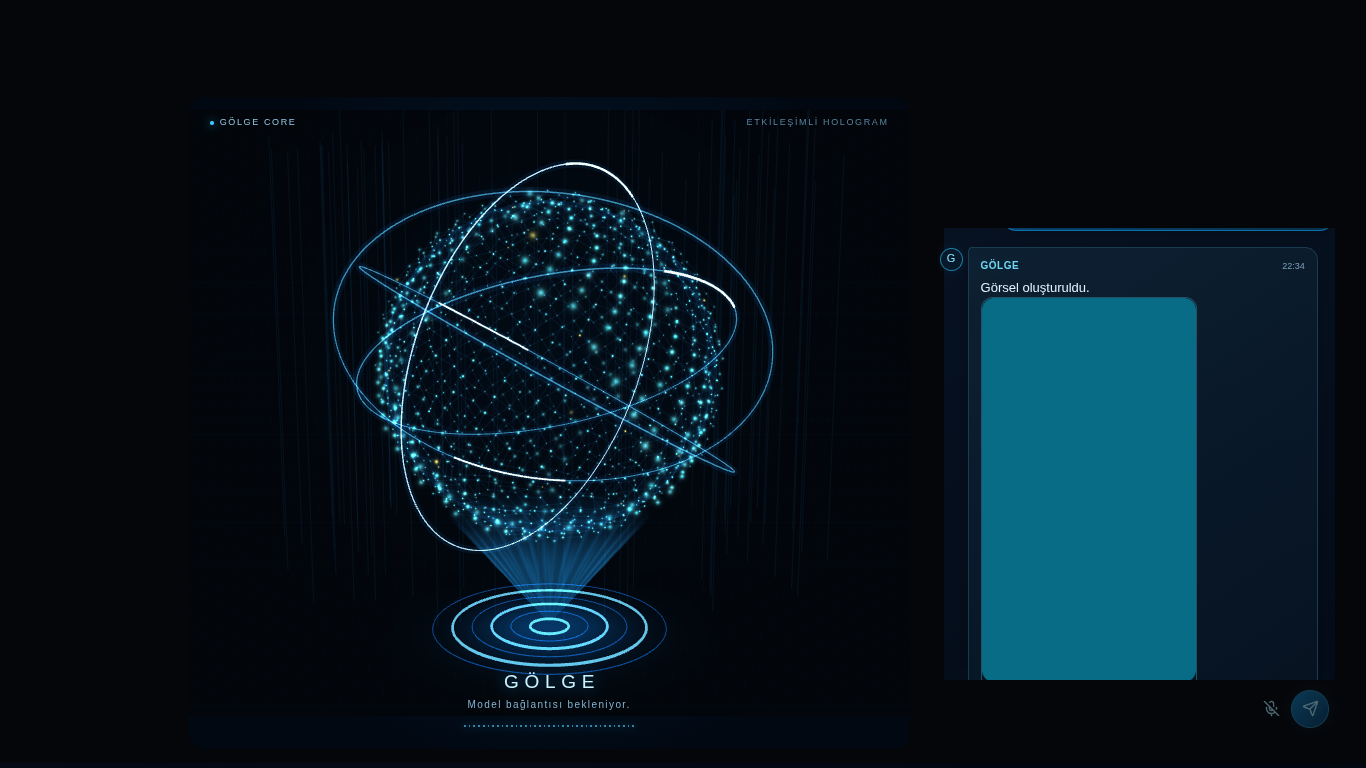
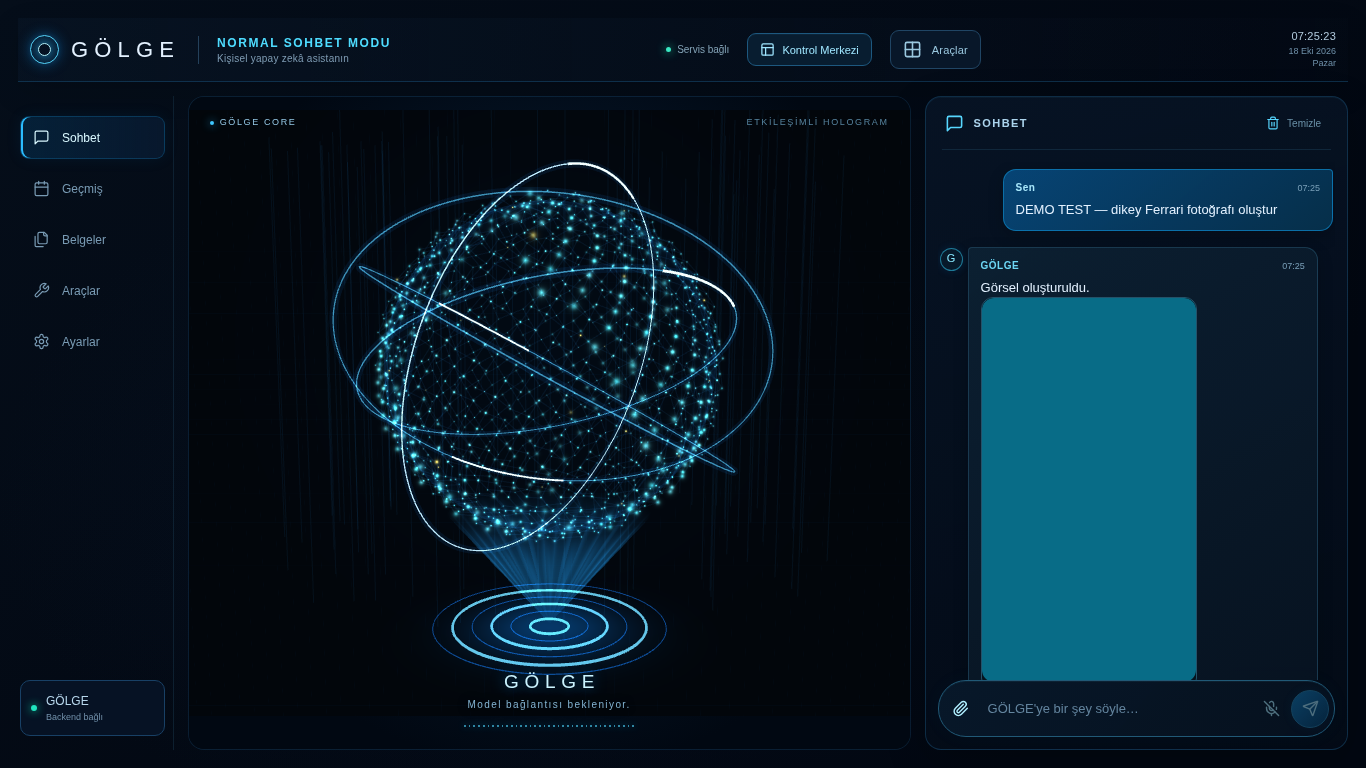
Keep image cost consent non-blocking and fence pending conversation changes

diff --git a/ultron/cloud_service/static/image-intents.js b/ultron/cloud_service/static/image-intents.js
@@ -10,5 +10,26 @@
   return null;
  }
  function options(text){const t=String(text).toLocaleLowerCase('tr-TR');return {aspect_ratio:/dikey|telefon.*duvar|portrait/.test(t)?'9:16':/yatay|masaüstü.*duvar|landscape/.test(t)?'16:9':'1:1',style:/sinematik|cinematic/.test(t)?'cinematic':/anime|çizim/.test(t)?'anime':/3d|3 boyut/.test(t)?'3d':/dijital sanat/.test(t)?'digital-art':/fotoğraf|gerçekçi|photo/.test(t)?'photo':'natural'};}
- return {resolve,options};
+ function confirmCost(detail,signal){
+  // Non-blocking consent: a native confirm() pauses audio/work on the JS thread.
+  return new Promise(done=>{
+   if(signal?.aborted){done(false);return;}
+   const previous=document.activeElement,dialog=document.createElement('dialog');
+   dialog.setAttribute('aria-label','Görsel üretimi maliyet onayı');
+   dialog.style.cssText='color:#dff6ff;background:#071522;border:1px solid #28758e;border-radius:16px;padding:24px;max-width:min(420px,90vw);z-index:9999';
+   const text=document.createElement('p');text.textContent=detail+' Ücretli tek görsel üretimini onaylıyor musun?';
+   const approve=document.createElement('button');approve.textContent='Ücretli üretimi onayla';approve.type='button';
+   const deny=document.createElement('button');deny.textContent='Vazgeç';deny.type='button';
+   for(const button of [approve,deny])button.style.cssText='padding:12px;margin:5px;border:1px solid #28758e;border-radius:10px;background:#10364b;color:#e1f7ff;cursor:pointer';
+   let settled=false;
+   const finish=value=>{if(settled)return;settled=true;signal?.removeEventListener('abort',abort);dialog.remove();previous?.focus?.();done(value);};
+   const abort=()=>finish(false);
+   approve.onclick=()=>finish(true);deny.onclick=()=>finish(false);
+   dialog.oncancel=e=>{e.preventDefault();finish(false)};
+   signal?.addEventListener('abort',abort,{once:true});dialog.append(text,approve,deny);document.body.append(dialog);
+   if(typeof dialog.showModal!=='function'){finish(false);return;}
+   dialog.showModal();deny.focus();
+  });
+ }
+ return {resolve,options,confirmCost};
 });

diff --git a/ultron/cloud_service/static/index.html b/ultron/cloud_service/static/index.html
@@ -1045,7 +1045,8 @@ async function generateImageApi(prompt,image=null){
   const config=await api('/api/image/status',{signal:job.controller.signal});
   if(activeImageJob!==job||conversationId!==startingConversation)return null;
   if(!config.available)throw Error(config.detail);
-  if(!window.confirm(config.detail+' Ücretli tek görsel üretimini onaylıyor musun?'))return null;
+  if(!await GolgeImages.confirmCost(config.detail,job.controller.signal))return null;
+  if(activeImageJob!==job||job.controller.signal.aborted||conversationId!==startingConversation)return null;
   if(!conversationId){conversationId=cid;localStorage.setItem('ultronConversationId',cid)}
   const res=await fetch('/api/image/generate',{method:'POST',credentials:'include',signal:job.controller.signal,
    headers:{'Content-Type':'application/json'},body:JSON.stringify({prompt,conversation_id:cid,request_id:job.id,cost_approved:true,...GolgeImages.options(prompt)})});

diff --git a/ultron/frontend/src/dashboard/Dashboard.tsx b/ultron/frontend/src/dashboard/Dashboard.tsx
@@ -351,7 +351,7 @@ export default function Dashboard(){
   try{
    const config=await request('/api/merged/image-studio/status',undefined,job.controller.signal);
    if(!config.available){u.add('assistant',config.detail);return;}
-   if(imageJob.current!==job||!window.confirm(config.detail+' Ücretli tek görsel üretimini onaylıyor musun?'))return;
+   if(imageJob.current!==job||!await GolgeImages.confirmCost(config.detail,job.controller.signal))return;
    localStorage.setItem('golgeImageConversation',imageConversation.current);
    setLocalState('THINKING');u.setNotice('Görsel oluşturuluyor… ESC ile sonucu iptal edebilirsin.');
    const r=await request('/api/merged/image-studio/generate',{prompt:text,conversation_id:imageConversation.current,request_id:job.id,cost_approved:true,...GolgeImages.options(text)},job.controller.signal);

diff --git a/ultron/cloud_service/static/image-intents.d.ts b/ultron/cloud_service/static/image-intents.d.ts
@@ -1,4 +1,4 @@
 export {};
 declare global {
- var GolgeImages: {resolve:(text:string)=>'generate'|'edit'|null;options:(text:string)=>{aspect_ratio:string;style:string}};
+ var GolgeImages: {confirmCost:(detail:string,signal?:AbortSignal)=>Promise<boolean>;resolve:(text:string)=>'generate'|'edit'|null;options:(text:string)=>{aspect_ratio:string;style:string}};
 }

diff --git a/scripts/tests/test_image_studio_browser.py b/scripts/tests/test_image_studio_browser.py
@@ -47,12 +47,14 @@ class ImageStudioBrowserTests(harness.ResearchSourceBrowserTests):
         return await super().api(request)
 
     async def test_desktop_generation_and_download(self):
-        self.page.on("dialog", lambda d: d.accept())
         await self.page.goto(self.url)
         await self.page.get_by_role("textbox", name="Mesaj", exact=True).fill(
             "DEMO TEST — dikey Ferrari fotoğrafı oluştur"
         )
         await self.page.get_by_role("button", name="Gönder", exact=True).click()
+        await self.page.get_by_role(
+            "button", name="Ücretli üretimi onayla", exact=True
+        ).click()
         img = self.page.get_by_alt_text("GÖLGE tarafından üretilen görsel")
         await img.wait_for()
         await self.page.wait_for_function(
@@ -70,7 +72,6 @@ class ImageStudioBrowserTests(harness.ResearchSourceBrowserTests):
             await self.page.get_by_role("link", name="Görseli indir / kaydet").click()
 
     async def phone(self):
-        self.page.on("dialog", lambda d: d.accept())
         await self.page.set_viewport_size({"width": 390, "height": 844})
         await self.page.goto(self.url + "/phone")
         await self.page.locator("#splash").wait_for(state="detached")
@@ -81,8 +82,11 @@ class ImageStudioBrowserTests(harness.ResearchSourceBrowserTests):
     async def test_phone_generation_reload_and_download(self):
         await self.phone()
         await self.page.evaluate(
-            "sendImageCreation('DEMO TEST — Mersin fotoğrafı oluştur',addMessage('user','DEMO TEST — Mersin fotoğrafı oluştur'))"
+            "void sendImageCreation('DEMO TEST — Mersin fotoğrafı oluştur',addMessage('user','DEMO TEST — Mersin fotoğrafı oluştur'))"
         )
+        await self.page.get_by_role(
+            "button", name="Ücretli üretimi onayla", exact=True
+        ).click()
         await self.page.wait_for_function(
             "document.querySelector('#messages img')?.naturalWidth===768"
         )
@@ -112,6 +116,9 @@ class ImageStudioBrowserTests(harness.ResearchSourceBrowserTests):
         await self.page.evaluate(
             "void sendImageCreation('DEMO TEST fotoğraf oluştur',null)"
         )
+        await self.page.get_by_role(
+            "button", name="Ücretli üretimi onayla", exact=True
+        ).click()
         await self.page.wait_for_function("activeImageJob!==null")
         await self.page.evaluate("cancelActiveChat()")
         await self.page.wait_for_timeout(700)
@@ -119,6 +126,9 @@ class ImageStudioBrowserTests(harness.ResearchSourceBrowserTests):
         await self.page.evaluate(
             "void sendImageCreation('DEMO TEST fotoğraf oluştur',null)"
         )
+        await self.page.get_by_role(
+            "button", name="Ücretli üretimi onayla", exact=True
+        ).click()
         await self.page.wait_for_function("activeImageJob!==null")
         await self.page.evaluate("conversationId=crypto.randomUUID()")
         await self.page.wait_for_timeout(700)
@@ -152,13 +162,46 @@ class ImageStudioBrowserTests(harness.ResearchSourceBrowserTests):
         self.assertEqual(self.invocations, [])
 
     async def test_refusing_cost_never_calls_generation(self):
-        self.page.on("dialog", lambda d: d.dismiss())
         await self.page.goto(self.url)
         await self.page.get_by_role("textbox", name="Mesaj", exact=True).fill(
             "Ferrari fotoğrafı oluştur"
         )
         await self.page.get_by_role("button", name="Gönder", exact=True).click()
+        await self.page.get_by_role("button", name="Vazgeç", exact=True).click()
         await self.page.wait_for_timeout(400)
+        self.assertEqual(self.invocations, [])
+
+    async def test_pending_consent_keeps_event_loop_live_and_escape_aborts(self):
+        for phone in (False, True):
+            if phone:
+                await self.phone()
+                await self.page.evaluate(
+                    "void sendImageCreation('DEMO TEST fotoğraf oluştur',null)"
+                )
+            else:
+                await self.page.goto(self.url)
+                await self.page.get_by_role("textbox", name="Mesaj", exact=True).fill(
+                    "DEMO TEST fotoğraf oluştur"
+                )
+                await self.page.get_by_role("button", name="Gönder", exact=True).click()
+            consent = self.page.get_by_role("dialog", name="Görsel üretimi maliyet onayı")
+            await consent.wait_for()
+            # A live JS timer is necessary for audio callbacks; this is not a mic test.
+            self.assertTrue(await self.page.evaluate(
+                "new Promise(resolve=>setTimeout(()=>resolve(true),30))"
+            ))
+            await self.page.keyboard.press("Escape")
+            await consent.wait_for(state="detached")
+            self.assertEqual(self.invocations, [])
+            self.assertEqual(await self.page.locator("figure img, #messages img").count(), 0)
+
+    async def test_phone_conversation_changed_while_consent_pending_never_dispatches(self):
+        await self.phone()
+        await self.page.evaluate("void sendImageCreation('DEMO TEST fotoğraf oluştur',null)")
+        await self.page.get_by_role("dialog", name="Görsel üretimi maliyet onayı").wait_for()
+        await self.page.evaluate("conversationId=crypto.randomUUID()")
+        await self.page.get_by_role("button", name="Ücretli üretimi onayla", exact=True).click()
+        await self.page.wait_for_function("activeImageJob===null")
         self.assertEqual(self.invocations, [])
 
 

diff --git a/scripts/tests/test_research_source_ui.py b/scripts/tests/test_research_source_ui.py
@@ -29,7 +29,7 @@ class ResearchSourceBrowserTests(unittest.IsolatedAsyncioTestCase):
         await site.start()
         self.url = 'http://127.0.0.1:' + str(site._server.sockets[0].getsockname()[1])
         self.pw = await async_playwright().start()
-        self.browser = await self.pw.chromium.launch(args=['--no-sandbox', '--use-angle=swiftshader', '--enable-unsafe-swiftshader'])
+        self.browser = await self.pw.chromium.launch(args=['--no-sandbox', '--disable-gpu-compositing', '--use-angle=swiftshader', '--enable-unsafe-swiftshader'])
         self.context = await self.browser.new_context(viewport={'width':1366,'height':768}, service_workers='block')
         self.page = await self.context.new_page()
         self.outbound = []

diff --git a/ULTRON_TEST_RESULTS.md b/ULTRON_TEST_RESULTS.md
@@ -1,3 +1,12 @@
+## 2026-10-18 — Image Studio final UI regression
+
+- TypeScript/Vite production build: **PASS**; frontend Node **59 PASS**, PWA Node **169 PASS**.
+- Actual Chromium Image Studio: **7 PASS**, 0 FAIL. Includes desktop generation/download/zoom, phone rendering/reload, native history deduplication, late cancellation, conversation switch, cost refusal, live JS timer during consent and ESC. Provider/images/Qt signals are fixtures; this is not real AI, microphone or physical device success.
+- Research renderer Chromium: **2 PASS**, 0 FAIL. CPU compositing avoids SwiftShader screenshot corruption without replacing WebGL rendering.
+- Test-first failure: switching phone conversations during pending cost consent still dispatched a paid-generation request; after the active-job/thread recheck, the same test passes with zero provider requests.
+- Initial implementation `dbd00a45e7ebdfd6cda7bbfb04bb42e11af5996e`: **7/7 GitHub Actions jobs SUCCESS**, five workflows (Cloud/PostgreSQL, Scene, Responsive, Mobile Listening, Local Qwen Listening). These Qwen-named CI contracts are not live model inference. Final follow-up commit results are recorded on draft PR #60.
+- Previously completed whole-suite counts below remain applicable; no backend changes in this final UI follow-up. Live image generation **BLOCKED**; Windows/iPhone/microphone/TTS **NOT RUN**. No merge/deploy.
+
 ## 2026-10-17 — Image Studio local verification
 
 - Cloud + disposable PostgreSQL: **458 PASS**, 0 FAIL, 0 skipped; 368 additional unittest subtests (not added to the test count).
@@ -9,7 +18,7 @@
 - Native image download policy: **1 PASS**; Earth Python config: **6 PASS**; required Python compile: **PASS**.
 - Regression failures found/fixed: Turkish “resmi yap” intent; history replay accidentally treated as a new voice request; duplicate Cloud image arrivals; research browser fixture racing startup; unauthenticated Qt download path was previously rejected and now has a narrowly scoped save-dialog policy.
 - Real AI image production: **BLOCKED** (no Gemini key/cost enablement). Real iPhone/Windows/microphone/Web Share: **NOT RUN**.
-- GitHub exact-head CI: pending new draft PR. No production merge or Render deploy.
+- GitHub CI: draft PR #60 initial implementation passed 7/7 jobs; final follow-up commit checks are recorded on the PR. No production merge or Render deploy.
 
 ## PR #59 — CI düzeltmesi (17 Ekim 2026)
 

diff --git a/docs/GOLGE_IMAGE_STUDIO.md b/docs/GOLGE_IMAGE_STUDIO.md
@@ -1,6 +1,8 @@
 # GÖLGE Image Studio — review build, 2026-10-17
 
 Text-to-image for the existing Windows React cockpit and iPhone Cloud PWA.
+Draft [PR #60](https://github.com/fatmakahraman304-hash/ULTRON/pull/60),
+branch `feat/golge-image-studio-20261017`.
 Stacked on draft PR #59 (`b0b4dbf0481c5650aa64e7cd5c63254164213f71`).
 No production merge, Render deployment, credential changes or paid API calls.
 
@@ -68,6 +70,8 @@ access. No provider API key or paired-device token enters JavaScript.
   the same intent handler; no new microphone stream or lease is opened.
 - Disabled/unconfigured service gives a clear message and makes no provider call.
 - When enabled, review the cost confirmation; refusal makes no provider call.
+  The shared HTML dialog does not block JavaScript audio callbacks. ESC refuses;
+  a conversation changed while approval is pending cannot dispatch the old job.
 - Generation status appears in chat. ESC / stop suppresses the eventual output.
 - Click the finished image to enlarge (Windows: zoom slider); use download/save
   or supported Web Share. iPhone full-size view uses the browser's image zoom.
@@ -140,6 +144,11 @@ python scripts/tests/test_research_source_ui.py
 ```
 
 Latest measured counts and CI status are recorded in `ULTRON_TEST_RESULTS.md`.
+Initial code commit `dbd00a45e7ebdfd6cda7bbfb04bb42e11af5996e` passed all seven
+Actions jobs across five workflows. Final consent/browser regression: seven
+Image Studio Chromium tests and two research-renderer tests pass. Current
+commit/check results are kept on PR #60. A live event-loop timer during consent
+does not prove physical microphone/audio success.
 Live Google image generation: **BLOCKED** (no key, enablement or spending approval).
 Windows hardware/Qt save dialog and microphone: **NOT RUN** (laptop unavailable).
 iPhone Safari/PWA physical zoom/share/save and microphone: **NOT RUN**.

diff --git a/ULTRON_NEXT_TASKS.md b/ULTRON_NEXT_TASKS.md
@@ -1,3 +1,7 @@
+## 2026-10-18 — Image Studio review and live acceptance
+
+Review draft [PR #60](https://github.com/fatmakahraman304-hash/ULTRON/pull/60), stacked on PR #59; preserve dependency order. Initial commit `dbd00a4` passed seven Actions jobs; check the final commit's checks on the PR before approval. Local non-blocking consent, ESC, conversation-switch, image/history/download tests pass (7 Chromium Image Studio + 2 research). Next: only after secure provider credentials and explicit daily budget/count approval, run one bounded real 1K image request and verify billing/safety/timeout reconciliation. No laptop commands requested; Windows Qt save dialog, native voice and physical iPhone share/zoom/save remain NOT RUN. Image editing and ledger account-erasure/archival policy remain follow-ups. Do not reset uncertain request ledger entries to retry. No merge/deploy or paid activation is authorized.
+
 ## 2026-10-17 — Image Studio continuation
 
 Branch `feat/golge-image-studio-20261017`, stacked on PR #59 `b0b4dbf`. PR #59 and production are unchanged. Finish exact-head CI on the new draft PR; no deploy/merge. Before live acceptance: securely provision a current Google image-model key and explicitly approve daily cost/count limits; then test one 1K request, billing, safety refusal and timeout reconciliation. Physical Windows Qt save dialog, microphone and iPhone Safari/PWA share/save/zoom remain NOT RUN; laptop currently unavailable. Editing is phase 2, intentionally unavailable. Do not clear image-request ledger rows to retry uncertain calls. Ledger archival/account-erasure policy remains a follow-up. See `docs/GOLGE_IMAGE_STUDIO.md` for exact environment gates and limits.

diff --git a/ULTRON_PROGRESS.md b/ULTRON_PROGRESS.md
@@ -1,3 +1,7 @@
+## 2026-10-18 — Image Studio PR #60 final consent verification
+
+Draft [PR #60](https://github.com/fatmakahraman304-hash/ULTRON/pull/60), branch `feat/golge-image-studio-20261017`, is stacked on unchanged PR #59 `b0b4dbf`. Initial implementation `dbd00a45e7ebdfd6cda7bbfb04bb42e11af5996e` passed all seven GitHub Actions jobs across five workflows. Cost approval now uses a non-blocking accessible dialog shared by Windows React and iPhone PWA. A test first reproduced dispatch after switching conversations while consent was pending; a second owner/thread/active-request check now prevents it. Seven Image Studio Chromium tests and two research-renderer tests pass; the event-loop check is not physical microphone validation. Corrected screenshots use Chromium SwiftShader with CPU compositing and a clearly marked synthetic PNG. No paid call, merge or Render deploy. Follow-up exact-commit CI is recorded on PR #60.
+
 ## 2026-10-17 — Image Studio (review build, separate from PR #59)
 
 Implemented owner-scoped Google image generation through the existing Cloud image endpoint, with explicit enablement/budget/per-request cost consent, PostgreSQL at-most-once ledger, quota and late-output suppression. Windows React and iPhone PWA now share intent/options and private generated-image history. Qt uses a restricted save-dialog download route. No paid provider call, production merge or deploy. See `docs/GOLGE_IMAGE_STUDIO.md`.

diff --git a/ULTRON_ROADMAP.md b/ULTRON_ROADMAP.md
@@ -1,3 +1,7 @@
+## 2026-10-18 — Image Studio implementation ready for review
+
+Draft [PR #60](https://github.com/fatmakahraman304-hash/ULTRON/pull/60) contains private Windows/PWA text-to-image, durable at-most-once request accounting and explicit non-blocking cost consent. Initial commit passed seven Actions jobs; final commit CI is tracked on the PR. Synthetic browser/API and real disposable PostgreSQL verification are complete. Live provider quality/cost and physical device acceptance remain blocked/not run; phase 2 editing is unavailable. PR #59 and production remain unchanged; no release or paid activation.
+
 ## 2026-10-17 — Image Studio text-to-image review milestone
 
 Shared Windows/PWA text-to-image path implemented, using existing Cloud storage/auth/history. Paid activation is fail-closed; independent PostgreSQL and browser verification included. Phase 2 image editing and physical/live provider acceptance are not complete. No autonomous activation or deployment. PR #59 remains an unchanged prerequisite.
